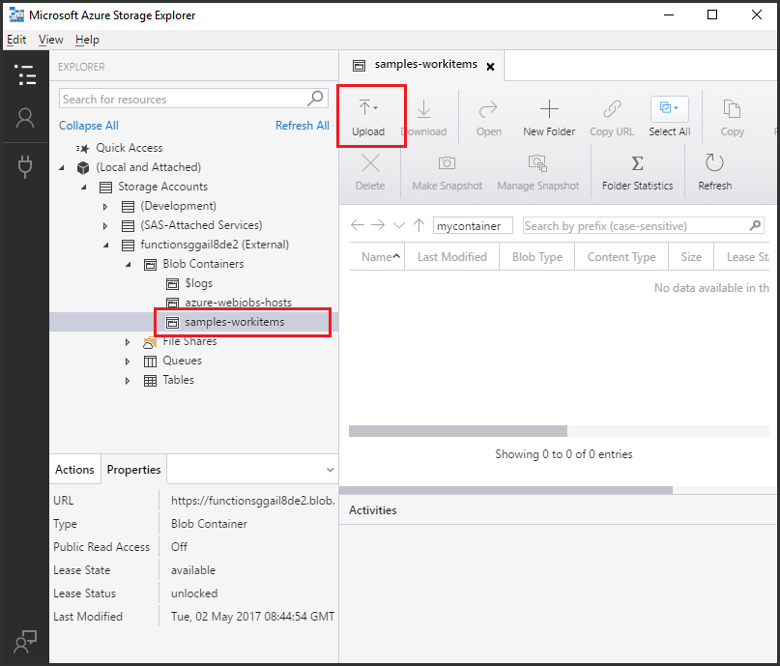
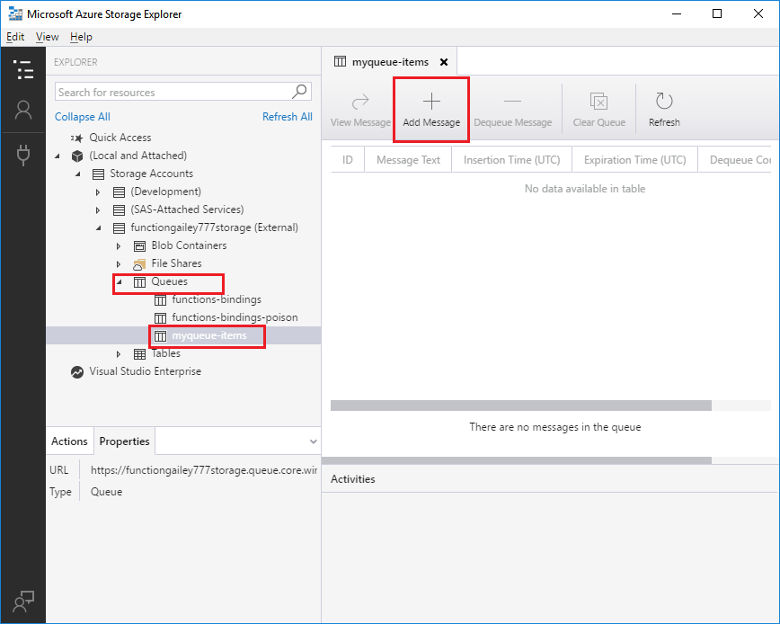
Updated

Changed region(s): [[0.0, 0.0, 1.0, 1.0], [0.2154, 0.8526, 0.4308, 0.9439], [0.9231, 0.1522, 0.9538, 0.2131]]

diff --git a/azure-functions/azure-functions-trigger-queue/steps/5/text.md b/azure-functions/azure-functions-trigger-queue/steps/5/text.md
@@ -1,13 +1,13 @@
-Back in the Azure portal, browse to your function expand the Logs at the bottom of the page and make sure that log streaming isn't paused.
+1. Back in the Azure portal, browse to your function, expand the Logs at the bottom of the page, and make sure that log streaming isn't paused.
 
-In Storage Explorer, expand your storage account, Blob containers, and samples-workitems. Click Upload and then Upload files....
+2. In Storage Explorer, expand your storage account, Queues, and myqueue-items, then click Add message.
+    ![](https://github.com/fenago/katacoda-scenarios/raw/master/azure-functions/azure-functions-trigger-queue/steps/5/1.png)
+Add a message to the queue.
 
-    ![](https://github.com/fenago/katacoda-scenarios/raw/master/azure-functions/azure-functions-trigger-blob/steps/5/1.png)
+3. Type your "Hello World!" message in Message text and click OK.
 
-In the Upload files dialog box, click the Files field. Browse to a file on your local computer, such as an image file, select it and click Open and then Upload.
+4. Wait for a few seconds, then go back to your function logs and verify that the new message has been read from the queue.
 
-Go back to your function logs and verify that the blob has been read.
+    ![](https://github.com/fenago/katacoda-scenarios/raw/master/azure-functions/azure-functions-trigger-queue/steps/5/4.png)
 
-    ![](https://github.com/fenago/katacoda-scenarios/raw/master/azure-functions/azure-functions-trigger-blob/steps/5/4.png)
-
-**Note:** When your function app runs in the default Consumption plan, there may be a delay of up to several minutes between the blob being added or updated and the function being triggered. If you need low latency in your blob triggered functions, consider running your function app in an App Service plan.
+5. Back in Storage Explorer, click Refresh and verify that the message has been processed and is no longer in the queue.

diff --git a/azure-functions/azure-functions-trigger-queue/steps/4/text.md b/azure-functions/azure-functions-trigger-queue/steps/4/text.md
@@ -1,17 +1,17 @@
 1. In your function, click Integrate, expand Documentation, and copy both Account name and Account key. You use these credentials to connect to the storage account. If you have already connected your storage account, skip to step 4.
 
-    ![](https://github.com/fenago/katacoda-scenarios/raw/master/azure-functions/azure-functions-trigger-blob/steps/4/1.png)
+    ![](https://github.com/fenago/katacoda-scenarios/raw/master/azure-functions/azure-functions-trigger-queue/steps/4/1.png)
 
 2. Run the Microsoft Azure Storage Explorer tool, click the connect icon on the left, choose Use a storage account name and key, and click Next.
 
-    ![](https://github.com/fenago/katacoda-scenarios/raw/master/azure-functions/azure-functions-trigger-blob/steps/4/2.png)
+    ![](https://github.com/fenago/katacoda-scenarios/raw/master/azure-functions/azure-functions-trigger-queue/steps/4/2.png)
 
 3. Enter the Account name and Account key from step 1, click Next and then Connect.
 
-    ![](https://github.com/fenago/katacoda-scenarios/raw/master/azure-functions/azure-functions-trigger-blob/steps/4/3.png)
+    ![](https://github.com/fenago/katacoda-scenarios/raw/master/azure-functions/azure-functions-trigger-queue/steps/4/3.png)
 
-4. Expand the attached storage account, right-click Blob containers, click Create blob container, type samples-workitems, and then press enter.
+4. Expand the attached storage account, right-click Queues, click Create Queue, type myqueue-items, and then press enter.
 
-    ![](https://github.com/fenago/katacoda-scenarios/raw/master/azure-functions/azure-functions-trigger-blob/steps/4/4.png)
+    ![](https://github.com/fenago/katacoda-scenarios/raw/master/azure-functions/azure-functions-trigger-queue/steps/4/4.png)
 
 Now that you have a blob container, you can test the function by uploading a file to the container.

diff --git a/azure-functions/azure-functions-trigger-queue/steps/3/text.md b/azure-functions/azure-functions-trigger-queue/steps/3/text.md
@@ -1,20 +1,20 @@
 1. Expand your function app and click the **+** button next to Functions. If this is the first function in your function app, select In-portal then Continue. Otherwise, go to step three.
 
-    ![](https://github.com/fenago/katacoda-scenarios/raw/master/azure-functions/azure-functions-trigger-blob/steps/3/1.png)
+    ![](https://github.com/fenago/katacoda-scenarios/raw/master/azure-functions/azure-functions-trigger-queue/steps/3/1.png)
 
 2. Choose **More templates** then Finish and view templates.
 
-    ![](https://github.com/fenago/katacoda-scenarios/raw/master/azure-functions/azure-functions-trigger-blob/steps/3/2.png)
+    ![](https://github.com/fenago/katacoda-scenarios/raw/master/azure-functions/azure-functions-trigger-queue/steps/3/2.png)
 
-3. In the search field, type blob and then choose the Blob trigger template.
+3. In the search field, type blob and then choose the Queue trigger template.
 
 4.  prompted, select Install to install the Azure Storage extension any dependencies in the function app. After installation succeeds, select Continue.
 
-    ![](https://github.com/fenago/katacoda-scenarios/raw/master/azure-functions/azure-functions-trigger-blob/steps/3/4.png)
+    ![](https://github.com/fenago/katacoda-scenarios/raw/master/azure-functions/azure-functions-trigger-queue/steps/3/4.png)
 
 5. Use the settings as specified in the table below the image.
 
-    ![](https://github.com/fenago/katacoda-scenarios/raw/master/azure-functions/azure-functions-trigger-blob/steps/3/5.png)
+    ![](https://github.com/fenago/katacoda-scenarios/raw/master/azure-functions/azure-functions-trigger-queue/steps/3/5.png)
 
 
 Setting | Suggested value | Description

diff --git a/azure-functions/azure-functions-trigger-queue/steps/2/text.md b/azure-functions/azure-functions-trigger-queue/steps/2/text.md
@@ -1,20 +1,20 @@
 Select the **Create a resource** button found on the upper left-hand corner of the Azure portal, then select **Compute** > **Function App**.
 
-![](https://github.com/fenago/katacoda-scenarios/raw/master/azure-functions/azure-functions-trigger-blob/steps/2/1.png)
+![](https://github.com/fenago/katacoda-scenarios/raw/master/azure-functions/azure-functions-trigger-queue/steps/2/1.png)
 
 Use the function app settings as specified in the table below the image.
 
-![](https://github.com/fenago/katacoda-scenarios/raw/master/azure-functions/azure-functions-trigger-blob/steps/2/2.png)
+![](https://github.com/fenago/katacoda-scenarios/raw/master/azure-functions/azure-functions-trigger-queue/steps/2/2.png)
 
 Select **Create** to provision and deploy the function app.
 
 Select the Notification icon in the upper-right corner of the portal and watch for the Deployment succeeded message.
 
-![](https://github.com/fenago/katacoda-scenarios/raw/master/azure-functions/azure-functions-trigger-blob/steps/2/3.png)
+![](https://github.com/fenago/katacoda-scenarios/raw/master/azure-functions/azure-functions-trigger-queue/steps/2/3.png)
 
 
 Select Go to resource to view your new function app. You can also select Pin to dashboard. Pinning makes it easier to return to this function app resource from your dashboard.
 
-![](https://github.com/fenago/katacoda-scenarios/raw/master/azure-functions/azure-functions-trigger-blob/steps/2/4.JPG)
+![](https://github.com/fenago/katacoda-scenarios/raw/master/azure-functions/azure-functions-trigger-queue/steps/2/4.JPG)
 
 Next, you create a function in the new function app.

diff --git a/azure-functions/azure-functions-trigger-queue/steps/6/text.md b/azure-functions/azure-functions-trigger-queue/steps/6/text.md
@@ -4,7 +4,7 @@ Resources in Azure refers to function apps, functions, storage accounts, and so 
 
     To get to that page from the function app page, select the **Overview tab** and then select the link under **Resource group**.
 
-    ![](https://github.com/fenago/katacoda-scenarios/raw/master/azure-functions/azure-functions-trigger-blob/steps/6/1.png)
+    ![](https://github.com/fenago/katacoda-scenarios/raw/master/azure-functions/azure-functions-trigger-queue/steps/6/1.png)
 
     To get to that page from the dashboard, select **Resource groups**, and then select the resource group that you used for this quickstart.
 
